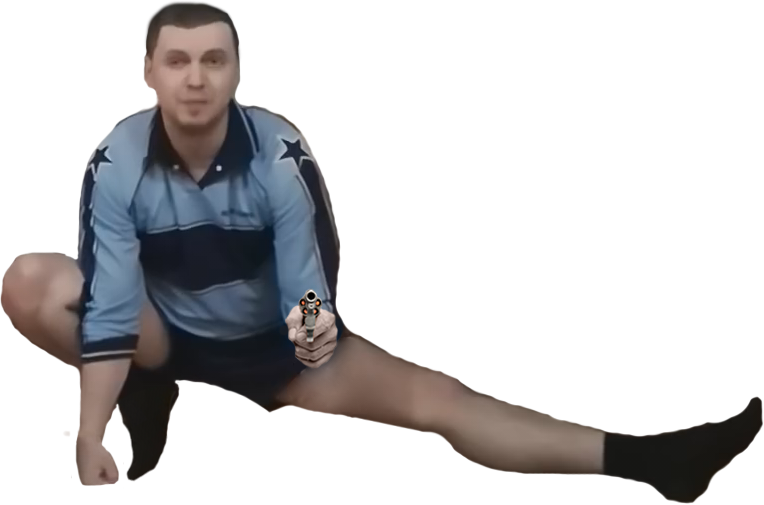
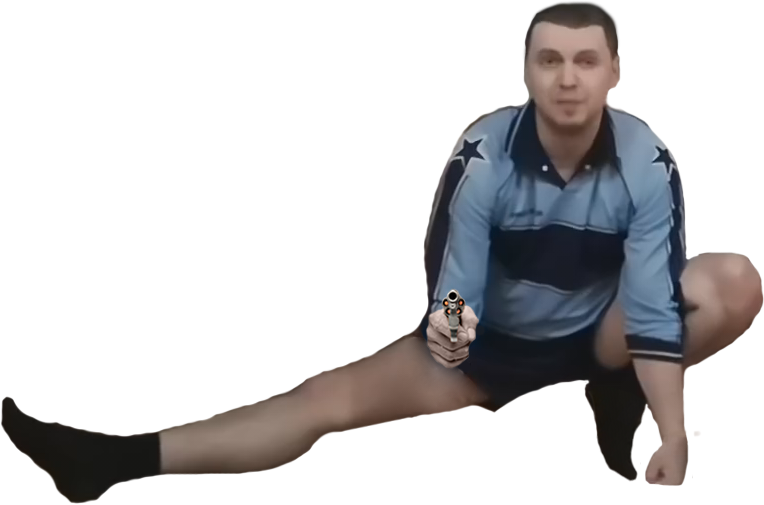
Save

diff --git a/game/object/Papich.py b/game/object/Papich.py
@@ -4,30 +4,44 @@ import sys
 import pygame
 
 from game.visual.Sprites import Sprites
+from game.visual.Image import Image
 from game.system.Registry import Registry, OPTIONS
 
-class Papich(Sprites):
-	def __init__(self, path, num):
+class Papich(Image):
+	def __init__(self):
 		pygame.sprite.Sprite.__init__(self)
 		self.currentTime = 0
-		self.num = num
-		self.image = {}
-		self.path = path
-	
+		self.nameimg = ("[1]", "[2]", "1", "2", "3")
+		self.papichsurf = []
+		for i in range(len(self.nameimg)):
+			self.papichsurf.append(pygame.image.load(os.path.realpath("img\\" + "papich\\" + self.nameimg[i] + ".png")).convert_alpha())
+		
 	def createPapich(self, posX, posY, sizeX=1, sizeY=1):
 		self.posX = posX
 		self.posY = posY
 		self.sizeX = sizeX
 		self.sizeY = sizeY
-		self.createImages(self.path, posX, posY, self.sizeX, self.sizeY)
+		self.image = self.papichsurf[1]
+		self.scaleImage(self.sizeX, self.sizeY)
+		self.changeRectImage(self.posX, self.posY)
+		
 	def shoot(self):
 		pass
 	def changePos(self, event):
 		if event == pygame.K_LEFT:
 			self.currentNum = 1
+			self.image = self.papichsurf[4]
+			self.scaleImage(self.sizeX, self.sizeY)
+			self.changeRectImage(self.posX-50, self.posY)
 		elif event == pygame.K_DOWN:
 			self.currentNum = 2
+			self.image = self.papichsurf[3]
+			self.scaleImage(self.sizeX, self.sizeY)
+			self.changeRectImage(self.posX, self.posY)
 		elif event == pygame.K_RIGHT:
 			self.currentNum = 3
+			self.image = self.papichsurf[2]
+			self.scaleImage(self.sizeX, self.sizeY)
+			self.changeRectImage(self.posX+50, self.posY)
 	def showPapich(self):
-		self.image[self.currentNum].showImage(self.posX, self.posY)
+		self.showStaticImage()

diff --git a/game/window/GameWindow.py b/game/window/GameWindow.py
@@ -24,15 +24,20 @@ class GameWindow(Window):
 			if event.type == pygame.QUIT:
 				self.exit()
 			elif event.type == pygame.KEYDOWN:
-				if event.key == (pygame.K_LEFT or pygame.K_DOWN or pygame.K_RIGHT):
-					papich.changePos(event.key)
+				if event.key in (pygame.K_LEFT, pygame.K_DOWN, pygame.K_RIGHT):
+					self.papich.changePos(event.key)
 				if event.key == pygame.K_RETURN:
 					self.changeFullscreen()
 	
 	def preInit(self):
 		pygame.mixer.music.stop()
-		papich = Papich("papich\\", 3)
-		papich.createPapich(960, 800)
+		self.backgroundMenuImage = Image()
+		self.backgroundMenuImage.createStaticImage(960, 540, "center",
+		                    "backgroundgameimage", "backgroundgame\\")
+		self.papich = Papich()
+		self.papich.createPapich(960, 380, 1/4, 1/4)
+		
 	def postInit(self):
-		papich.showPapich()
+		self.backgroundMenuImage.showStaticImage()
+		self.papich.showPapich()
 	

diff --git a/game/visual/Image.py b/game/visual/Image.py
@@ -19,7 +19,6 @@ class Image(pygame.sprite.Sprite):
 			except:
 				self.image = pygame.image.load(os.path.realpath("img\\" + path + str(name) + ".jpeg")).convert_alpha()
 	def scaleImage(self, sizeX=1, sizeY=1):
-		print(sizeX, sizeY)
 		self.image = pygame.transform.scale(self.image, (round(self.image.get_width()*self.changeSizeX(sizeX)), round(self.image.get_height()*self.changeSizeY(sizeY))))
 	
 	def changeRectImage(self, posX, posY, pos="center"):

diff --git a/README.md b/README.md
@@ -1,4 +1,4 @@
 <h1><center>Рабочий файл - Noname.py</center></h1><h3><center>Потраченное время на проект:</center><center><pre>День	1
 Часов	19
 Минут	12
-Секунд	30</pre></center></h3><h5><a href="https://youtu.be/UryFjJnok6I">Кликабельный скриншот (видео)</a></h5><a style="float:right" href="https://youtu.be/UryFjJnok6I" target="_blank">  <img alt="Papich Gameplay" src="https://img.youtube.com/vi/UryFjJnok6I/maxresdefault.jpg" /></a>
+Секунд	36</pre></center></h3><h5><a href="https://youtu.be/UryFjJnok6I">Кликабельный скриншот (видео)</a></h5><a style="float:right" href="https://youtu.be/UryFjJnok6I" target="_blank">  <img alt="Papich Gameplay" src="https://img.youtube.com/vi/UryFjJnok6I/maxresdefault.jpg" /></a>
